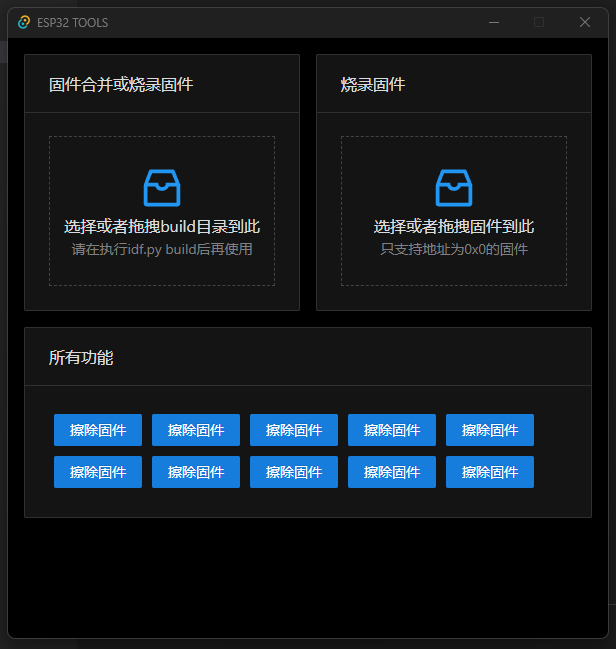
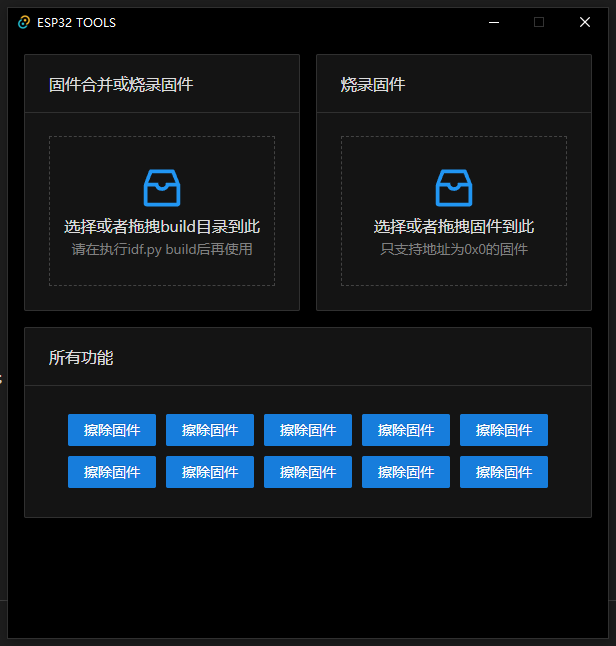
端口列表

diff --git a/src/components/Drop.vue b/src/components/Drop.vue
@@ -3,105 +3,122 @@
     <a-col :span="12">
       <a-card title="固件合并或烧录固件">
         <div ref="mergeBinBox" class="dropBox">
-          <InboxOutlined style="color:#2196f3;font-size: 50px;" />
-          <span style="display:block;font-size: 16px;align-self: center;">选择或者拖拽build目录到此</span>
-          <span style="display:block;font-size: 14px;color: gray;align-self: center;">请在执行idf.py build后再使用</span>
+          <InboxOutlined style="color: #2196f3; font-size: 50px" />
+          <span style="display: block; font-size: 16px; align-self: center"
+            >选择或者拖拽build目录到此</span
+          >
+          <span
+            style="
+              display: block;
+              font-size: 14px;
+              color: gray;
+              align-self: center;
+            "
+            >请在执行idf.py build后再使用</span
+          >
         </div>
       </a-card>
     </a-col>
     <a-col :span="12">
       <a-card title="烧录固件">
         <div ref="downloadBinBox" class="dropBox">
-          <InboxOutlined style="color:#2196f3;font-size: 50px;" />
-          <span style="display:block;font-size: 16px;align-self: center;">选择或者拖拽固件到此</span>
-          <span style="display:block;font-size: 14px;color: gray;align-self: center;">只支持地址为0x0的固件</span>
+          <InboxOutlined style="color: #2196f3; font-size: 50px" />
+          <span style="display: block; font-size: 16px; align-self: center"
+            >选择或者拖拽固件到此</span
+          >
+          <span
+            style="
+              display: block;
+              font-size: 14px;
+              color: gray;
+              align-self: center;
+            "
+            >只支持地址为0x0的固件</span
+          >
         </div>
       </a-card>
     </a-col>
   </a-row>
-
 </template>
 
 <script>
-import { InboxOutlined } from "@ant-design/icons-vue";
-import { message } from "ant-design-vue";
 import { defineComponent, ref } from "vue";
-
-import { listen } from '@tauri-apps/api/event'
+import { InboxOutlined } from "@ant-design/icons-vue";
+import { Command } from "@tauri-apps/api/shell";
+import { listen } from "@tauri-apps/api/event";
 import { readTextFile } from "@tauri-apps/api/fs";
-
-
-
+import { invoke } from "@tauri-apps/api/tauri";
 
 export default defineComponent({
   components: {
     InboxOutlined,
   },
   setup() {
-
-    listen("tauri://file-drop", async event => {
-      let path = event.payload[0];
-      let filename = event.payload[0].replace(/^.*[\\\/]/, '')
-      if (filename === "build") {
-        let contents = await readTextFile(
-          path + "/config/sdkconfig.json"
-        );
-        let chip = JSON.parse(contents).IDF_TARGET;
-        console.info(chip);
-
-        mergeBinBox.value.style = "border: 1px dashed #434343;"
-      }
-
-
-      if (filename.split('.').pop() === "bin") {
-        downloadBinBox.value.style = "border: 1px dashed #434343;"
-      }
-
-
-    })
-
-    listen("tauri://file-drop-hover", event => {
-
-      let path = event.payload[0];
-      let filename = event.payload[0].replace(/^.*[\\\/]/, '')
-      if (filename === "build") {
-        mergeBinBox.value.style = "border: 1px dashed #177ddc;"
-      }
-
-
-      if (filename.split('.').pop() === "bin") {
-        downloadBinBox.value.style = "border: 1px dashed #177ddc;"
-      }
-
-
-
-    })
-
-    listen("tauri://file-drop-cancelled", event => {
-      downloadBinBox.value.style = "border: 1px dashed #434343;"
-      mergeBinBox.value.style = "border: 1px dashed #434343;"
-
-    })
     const mergeBinBox = ref();
     const downloadBinBox = ref();
 
+    listen("tauri://file-drop", async (event) => {
+      let path = event.payload[0];
+      let filename = event.payload[0].replace(/^.*[\\\/]/, "");
+      if (filename === "build") {
+        let contents = await readTextFile(path + "/config/sdkconfig.json");
+        let chip = JSON.parse(contents).IDF_TARGET;
+        console.info(chip);
+
+        mergeBinBox.value.style = "border: 1px dashed #434343;";
+        //const command = new Command("C:/Users/vaemc/Desktop/esptool.exe --chip ESP32-C2  merge_bin -o D:/2023/rust/flash_image.bin --flash_mode dio --flash_freq 60m --flash_size 2MB 0x0 D:/doit/2022/esp32c2_sensor_dev_board/esp32c2_sensor_dev_board_example/build/bootloader/bootloader.bin 0x10000 D:/doit/2022/esp32c2_sensor_dev_board/esp32c2_sensor_dev_board_example/build/esp32c2_sensor_dev_board_example.bin 0x8000 D:/doit/2022/esp32c2_sensor_dev_board/esp32c2_sensor_dev_board_example/build/partition_table/partition-table.bin");
+        // let cmd="C:/Users/vaemc/Desktop/esptool.exe --chip ESP32-C2  merge_bin -o D:/2023/rust/flash_image.bin --flash_mode dio --flash_freq 60m --flash_size 2MB 0x0 D:/doit/2022/esp32c2_sensor_dev_board/esp32c2_sensor_dev_board_example/build/bootloader/bootloader.bin 0x10000 D:/doit/2022/esp32c2_sensor_dev_board/esp32c2_sensor_dev_board_example/build/esp32c2_sensor_dev_board_example.bin 0x8000 D:/doit/2022/esp32c2_sensor_dev_board/esp32c2_sensor_dev_board_example/build/partition_table/partition-table.bin";
+        // const command = new Command("C:/Users/vaemc/Desktop/esptool.exe", ['/C', cmd]);
+        // command.spawn();
+
+        // const command = new Command("esptool", [
+        //   "--chip ESP32-C2  merge_bin -o D:/2023/rust/flash_image.bin --flash_mode dio --flash_freq 60m --flash_size 2MB 0x0 D:/doit/2022/esp32c2_sensor_dev_board/esp32c2_sensor_dev_board_example/build/bootloader/bootloader.bin 0x10000 D:/doit/2022/esp32c2_sensor_dev_board/esp32c2_sensor_dev_board_example/build/esp32c2_sensor_dev_board_example.bin 0x8000 D:/doit/2022/esp32c2_sensor_dev_board/esp32c2_sensor_dev_board_example/build/partition_table/partition-table.bin",
+        // ]);
+
+        // const pid = await command.spawn();
+
+        // command.stderr.on("data", (line) => {
+        //   console.info("line");
+        //   console.info(line);
+        // });
+      }
+
+      if (filename.split(".").pop() === "bin") {
+        downloadBinBox.value.style = "border: 1px dashed #434343;";
+      }
+    });
+
+    listen("tauri://file-drop-hover", (event) => {
+      let path = event.payload[0];
+      let filename = event.payload[0].replace(/^.*[\\\/]/, "");
+      if (filename === "build") {
+        mergeBinBox.value.style = "border: 1px dashed #177ddc;";
+      }
+
+      if (filename.split(".").pop() === "bin") {
+        downloadBinBox.value.style = "border: 1px dashed #177ddc;";
+      }
+    });
+
+    listen("tauri://file-drop-cancelled", (event) => {
+      downloadBinBox.value.style = "border: 1px dashed #434343;";
+      mergeBinBox.value.style = "border: 1px dashed #434343;";
+    });
+
     return {
-      mergeBinBox, downloadBinBox, InboxOutlined
-    }
+      mergeBinBox,
+      downloadBinBox,
+      InboxOutlined,
+    };
   },
 
-  mounted() {
-
-  }, methods: {
-
-  }
+  mounted() {},
+  methods: {},
 });
 </script>
 
-
-
-
 <style>
+
 .dropBox {
   width: 100%;
   height: 150px;
@@ -109,13 +126,16 @@ export default defineComponent({
   display: flex;
   flex-direction: column;
   justify-content: center;
+  transition: all ease 0.5s;
+  /* transition: 0.5s ease; */
 }
-
 
 .dropBox:hover {
   width: 100%;
   height: 150px;
   border: 1px dashed #177ddc;
   cursor: pointer;
+  transition: all ease 1s;
 }
+
 </style>

diff --git a/src/components/PortSelect.vue b/src/components/PortSelect.vue
@@ -1,0 +1,44 @@
+<template>
+  <a-select
+    ref="select"
+    v-model="serialPortListDefaultSelectPath"
+    @dropdownVisibleChange="serialPortListSelectFocus"
+    @focus="serialPortListSelectFocus"
+    @change="serialPortListSelectChange"
+    style="width: 100%; margin-bottom: 16px"
+  >
+    <a-select-option v-for="item in serialPortList" :value="item">{{
+      item
+    }}</a-select-option>
+  </a-select>
+</template>
+<script>
+import { defineComponent, ref, reactive } from "vue";
+import { invoke } from "@tauri-apps/api/tauri";
+
+export default defineComponent({
+  setup() {
+    let serialPortList = ref([]);
+    const getSerialPortList = (isShowDefaultPath = false) => {
+      invoke("get_serial_port_list").then((message) => {
+        serialPortList.value = JSON.parse(message);
+        console.info(serialPortList);
+      });
+    };
+    const serialPortListSelectFocus = () => {
+      getSerialPortList();
+    };
+    const serialPortListSelectChange = (value) => {
+      console.info(value);
+    };
+    return {
+      serialPortListSelectFocus,
+      serialPortListSelectChange,
+      serialPortListDefaultSelectPath: "",
+      serialPortList,
+    };
+  },
+
+  
+});
+</script>

diff --git a/src/components/Container.vue b/src/components/Container.vue
@@ -1,10 +1,12 @@
 <template>
   <div>
+    <PortSelect/>
     <Drop />
     <ToolList style="margin-top:16px;" />
   </div>
 </template>
 <script setup>
+import PortSelect from "./PortSelect.vue";
 import Drop from "./Drop.vue";
 import ToolList from "./ToolList.vue";
 </script>

diff --git a/src/components/ToolList.vue b/src/components/ToolList.vue
@@ -1,6 +1,6 @@
 <template>
   <a-card title="所有功能">
-    <div>
+    <div style="display:flex; flex-wrap: wrap; justify-content:center">
       <a-button style="margin: 5px" v-for="n in 10" type="primary"
         >擦除固件</a-button
       >

diff --git a/src-tauri/src/main.rs b/src-tauri/src/main.rs
@@ -3,15 +3,34 @@
     windows_subsystem = "windows"
 )]
 
+use serialport::{available_ports};
+
 // Learn more about Tauri commands at https://tauri.app/v1/guides/features/command
 #[tauri::command]
 fn greet(name: &str) -> String {
     format!("Hello, {}! You've been greeted from Rust!", name)
 }
 
+#[tauri::command]
+fn get_serial_port_list() -> String {
+    match available_ports() {
+        Ok(ports) => {
+            let mut port_list  = Vec::new();
+            for p in ports {
+                port_list.push(p.port_name);
+            }
+            let json_data = serde_json::to_string(&port_list).unwrap();
+            return json_data;
+        }
+        Err(_e) => {
+            return "[]".to_string();
+        }
+    }
+}
+
 fn main() {
     tauri::Builder::default()
-        .invoke_handler(tauri::generate_handler![greet])
+        .invoke_handler(tauri::generate_handler![greet,get_serial_port_list])
         .run(tauri::generate_context!())
         .expect("error while running tauri application");
 }
